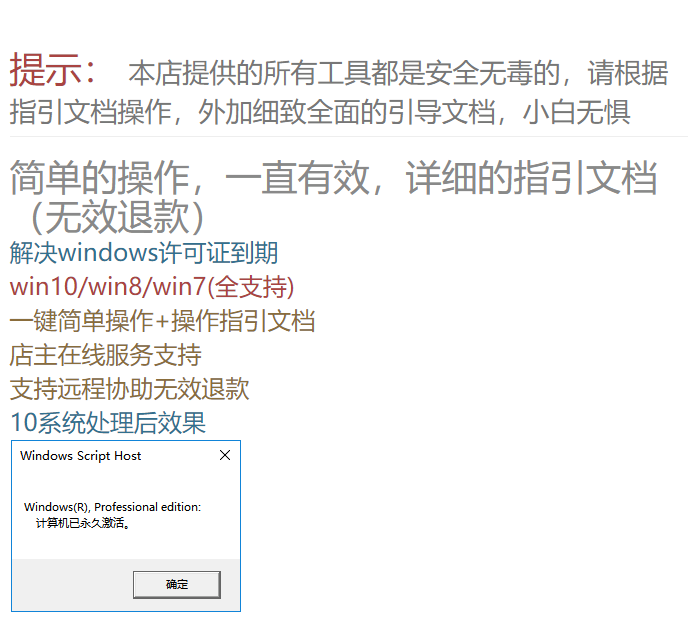
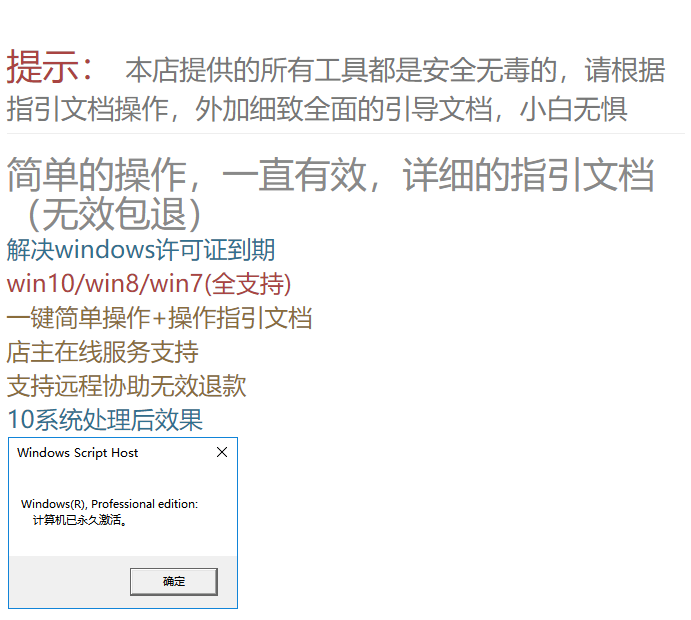
#111

diff --git a/details/index.html b/details/index.html
@@ -25,7 +25,7 @@
                 </h1>
             </div>
         </h4>
-        <h1>简单的操作，一直有效，详细的指引文档（无效退款）</h1>
+        <h1>简单的操作，一直有效，详细的指引文档（无效包退）</h1>
         <p class="text-info">解决windows许可证到期</p>
         <p class="text-danger">win10/win8/win7(全支持)</p>
         <p class="partTwo text-warning"><span>一键简单操作</span>+<span>操作指引文档</span></p>
